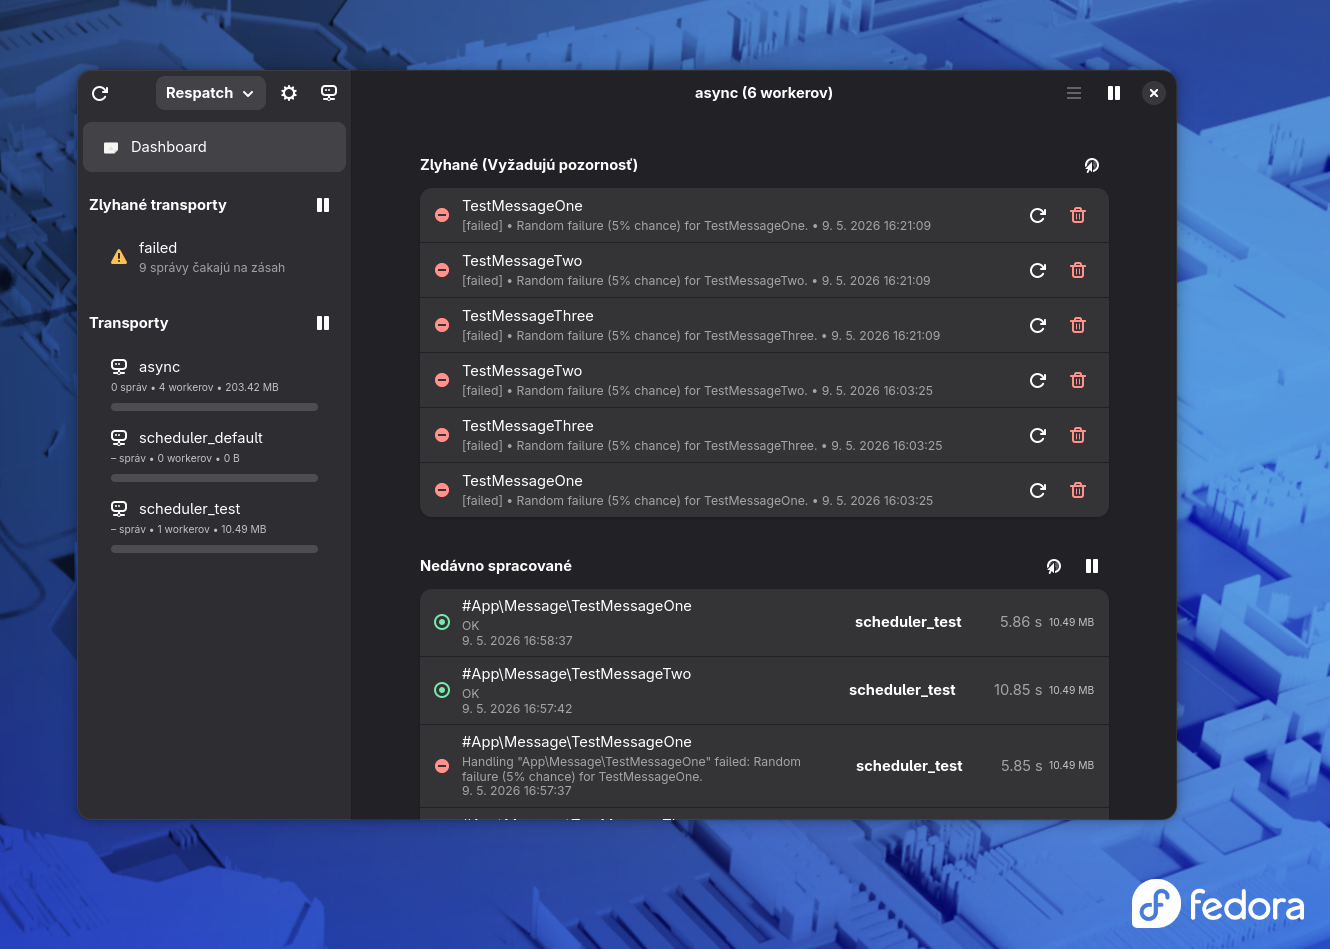
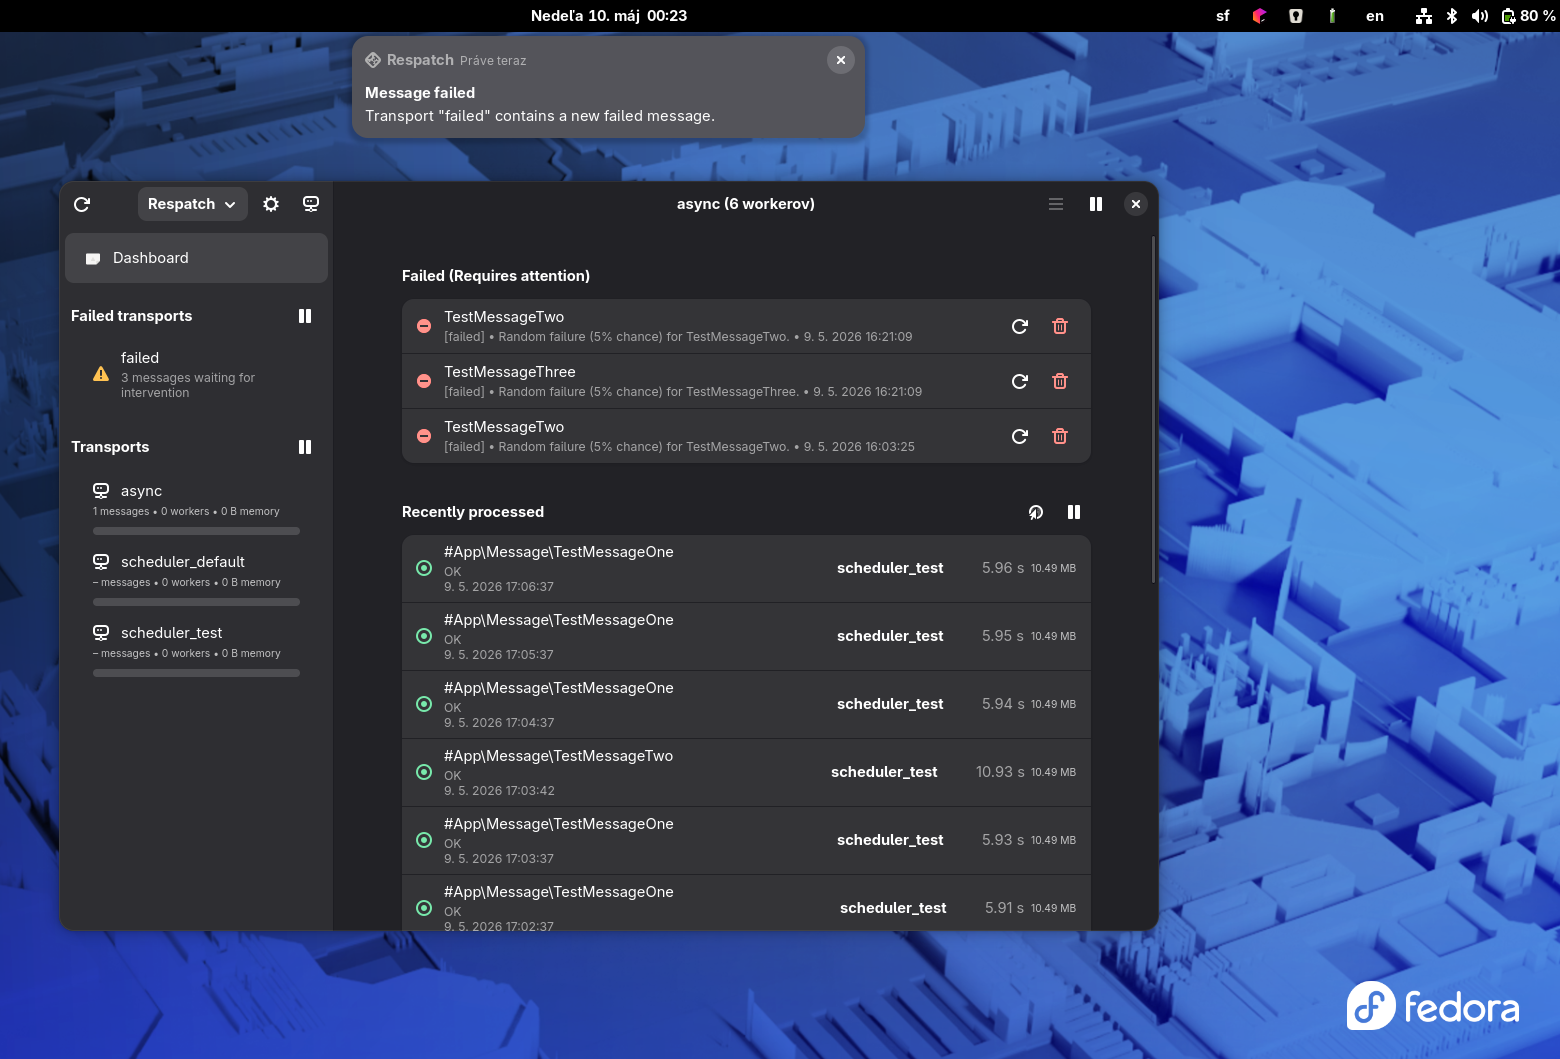
wip

diff --git a/src/daemon.ts b/src/daemon.ts
@@ -1,0 +1,144 @@
+import Gio from 'gi://Gio';
+import GLib from 'gi://GLib';
+import { _ } from './gettext.js';
+import { gjsFetch } from './libs/fetch.js';
+import { SettingsService } from './services/SettingsService.js';
+import { ApiClient } from './services/ApiClient.js';
+import { LoggerService, ConsoleTransport, FileTransport, LogTransport } from './services/LoggerService.js';
+import { NotificationService } from './services/NotificationService.js';
+import { Project } from './models/Project.js';
+
+// Configuration
+const POLL_INTERVAL_SECONDS = 10;
+
+export const Daemon = Gio.Application.new('sk.tito10047.respatch.Daemon', Gio.ApplicationFlags.FLAGS_NONE);
+
+let settingsService: SettingsService;
+let apiClient: ApiClient;
+let logger: LoggerService;
+let notificationService: NotificationService;
+let loopId: number | null = null;
+let projectsToMonitor: Project[] = [];
+
+function setupServices() {
+    settingsService = new SettingsService();
+    
+    // Setup Logging
+    const transports: LogTransport[] = [new ConsoleTransport()];
+    if (settingsService.getLogToFile()) {
+        let logPath = settingsService.getLogPath();
+        if (!logPath) {
+            const logDir = GLib.build_filenamev([GLib.get_user_data_dir(), 'respatch']);
+            logPath = GLib.build_filenamev([logDir, 'daemon.log']);
+        } else {
+            if (logPath.startsWith('~/')) {
+                logPath = GLib.build_filenamev([GLib.get_home_dir(), logPath.slice(2)]);
+            }
+            // If the user specified a custom log file for the app, we use it for daemon as well, 
+            // but append '-daemon' to the file name to avoid overlapping logs, or just change the name.
+            // A simpler approach is to replace the filename with daemon.log if it ends with .log
+            const dir = GLib.path_get_dirname(logPath);
+            let base = GLib.path_get_basename(logPath);
+            if (base.endsWith('.log')) {
+                base = base.slice(0, -4) + '-daemon.log';
+            } else {
+                base = base + '-daemon';
+            }
+            logPath = GLib.build_filenamev([dir, base]);
+        }
+        transports.push(new FileTransport(logPath));
+    }
+
+    logger = new LoggerService(transports, settingsService.getLoggingEnabled());
+    logger.info('Daemon starting');
+
+    apiClient = new ApiClient(gjsFetch);
+    notificationService = new NotificationService(Daemon);
+
+    loadConfig();
+
+    // Listen to changes in settings so we don't have to restart daemon
+    settingsService.getSettings().connect('changed', (settings: Gio.Settings, key: string) => {
+        if (key === 'projects') {
+            logger.info('Settings changed, reloading config...');
+            loadConfig();
+        }
+    });
+}
+
+function loadConfig() {
+    projectsToMonitor = settingsService.getProjects();
+    logger.info(`Loaded config for ${projectsToMonitor.length} project(s).`);
+}
+
+async function checkFailedMessages() {
+    if (projectsToMonitor.length === 0) {
+        return GLib.SOURCE_CONTINUE;
+    }
+
+    const allKeys: string[] = [];
+
+    for (const project of projectsToMonitor) {
+        try {
+            const transports = await apiClient.fetchTransports(project.url, project.token);
+            const failureTransportNames = Object.entries(transports)
+                .filter(([, info]) => info.failure)
+                .map(([name]) => name);
+
+            if (failureTransportNames.length === 0) {
+                continue;
+            }
+
+            const results = await Promise.allSettled(
+                failureTransportNames.map(name =>
+                    apiClient.fetchFailedMessages(project.url, project.token, name)
+                )
+            );
+
+            for (const result of results) {
+                if (result.status === 'fulfilled') {
+                    for (const msg of result.value) {
+                        allKeys.push(`${msg.transport}:${msg.id}:${project.id}`);
+                    }
+                }
+            }
+        } catch (e) {
+            logger.error(`Error checking failed messages for project ${project.name}: ${e}`);
+        }
+    }
+
+    logger.info(`Found ${allKeys.length} failed messages to process.`);
+    notificationService.processFailedMessages(allKeys);
+
+    return GLib.SOURCE_CONTINUE;
+}
+
+Daemon.connect('startup', () => {
+    setupServices();
+});
+
+Daemon.connect('activate', () => {
+    // Start polling loop
+    if (!loopId) {
+        loopId = GLib.timeout_add_seconds(
+            GLib.PRIORITY_DEFAULT,
+            POLL_INTERVAL_SECONDS,
+            () => {
+                checkFailedMessages().catch(e => logger.error(`Unhandled error in checkFailedMessages: ${e}`));
+                return GLib.SOURCE_CONTINUE;
+            }
+        );
+        logger.info(`Started polling every ${POLL_INTERVAL_SECONDS} seconds`);
+    }
+    Daemon.hold(); // Keep daemon alive
+});
+
+Daemon.connect('shutdown', () => {
+    if (loopId) {
+        GLib.source_remove(loopId);
+        loopId = null;
+    }
+    logger.info('Daemon shutting down');
+});
+
+Daemon.run([import.meta.url]);

diff --git a/src/ui/windows/MainWindow.ts b/src/ui/windows/MainWindow.ts
@@ -1,5 +1,6 @@
 import Gtk from 'gi://Gtk?version=4.0';
 import Adw from 'gi://Adw?version=1';
+import Gio from 'gi://Gio';
 import { _ } from '../../gettext.js';
 import { WindowManager } from '../../WindowManager.js';
 import { ProjectStore } from '../../stores/ProjectStore.js';
@@ -45,6 +46,9 @@ export class MainWindow {
     private readonly recentMessagesSection: PollingSection<RecentMessage, RecentMessagesResponse>;
     private readonly failedMessagesSection: PollingSection<FailedMessage, FailedMessagesResponse>;
 
+    private daemonRunning = false;
+    private readonly daemonWatchId: number;
+
     constructor(
         app: Adw.Application,
         uiDir: string,
@@ -79,6 +83,20 @@ export class MainWindow {
         this.transportSection.start();
         this.recentMessagesSection.start();
         this.failedMessagesSection.start();
+
+        this.daemonWatchId = Gio.bus_watch_name(
+            Gio.BusType.SESSION,
+            'sk.tito10047.respatch.Daemon',
+            Gio.BusNameWatcherFlags.NONE,
+            () => { 
+                this.logger.info('Daemon is running. Disabling local notifications.');
+                this.daemonRunning = true; 
+            },
+            () => { 
+                this.logger.info('Daemon is NOT running. Enabling local notifications.');
+                this.daemonRunning = false; 
+            }
+        );
     }
 
     present(): void {
@@ -305,7 +323,11 @@ export class MainWindow {
             toItems: (response) => response,
             keyOf: (msg) => `${msg.transport}:${msg.id}`,
             createRow: () => new FailedMessageRow(uiDir, actionHandler.createHandler()),
-            onRenderedKeys: (keys) => this.notificationService.processFailedMessages(keys),
+            onRenderedKeys: (keys) => {
+                if (!this.daemonRunning) {
+                    this.notificationService.processFailedMessages(keys);
+                }
+            },
         });
     }
 }

diff --git a/src/ui/windows/SettingsWindow.ts b/src/ui/windows/SettingsWindow.ts
@@ -18,12 +18,19 @@ export class SettingsWindow {
 
         const loggingRow = builder.get_object('logging_enabled_row') as Adw.SwitchRow;
         const logToFileRow = builder.get_object('log_to_file_row') as Adw.SwitchRow;
+        const logPathRow = builder.get_object('log_path_row') as Adw.EntryRow;
         const messengerUrlRow = builder.get_object('messenger_dashboard_url_row') as Adw.EntryRow;
         const preferredBrowserRow = builder.get_object('preferred_browser_row') as Adw.EntryRow;
 
         // Sync state from settings
         loggingRow.set_active(this.settingsService.getLoggingEnabled());
         logToFileRow.set_active(this.settingsService.getLogToFile());
+        
+        const currentLogPath = this.settingsService.getLogPath();
+        if (currentLogPath) {
+            logPathRow.set_text(currentLogPath);
+        }
+
         messengerUrlRow.set_text(this.settingsService.getMessengerDashboardUrl());
         preferredBrowserRow.set_text(this.settingsService.getPreferredBrowser());
 
@@ -37,6 +44,10 @@ export class SettingsWindow {
         logToFileRow.connect('notify::active', () => {
             const active = logToFileRow.get_active();
             this.settingsService.setLogToFile(active);
+        });
+
+        logPathRow.connect('apply', () => {
+            this.settingsService.setLogPath(logPathRow.get_text());
         });
 
         messengerUrlRow.connect('apply', () => {

diff --git a/src/Application.ts b/src/Application.ts
@@ -41,8 +41,13 @@ export const Application = GObject.registerClass({
         const logToFile = this.settingsService.getLogToFile();
 
         if (logToFile) {
-            const logDir = GLib.build_filenamev([GLib.get_user_data_dir(), 'respatch']);
-            const logPath = GLib.build_filenamev([logDir, 'respatch.log']);
+            let logPath = this.settingsService.getLogPath();
+            if (!logPath) {
+                const logDir = GLib.build_filenamev([GLib.get_user_data_dir(), 'respatch']);
+                logPath = GLib.build_filenamev([logDir, 'respatch.log']);
+            } else if (logPath.startsWith('~/')) {
+                logPath = GLib.build_filenamev([GLib.get_home_dir(), logPath.slice(2)]);
+            }
             transports.push(new FileTransport(logPath));
         }
 

diff --git a/src/services/SettingsService.ts b/src/services/SettingsService.ts
@@ -8,6 +8,10 @@ export class SettingsService {
         this.settings = new Gio.Settings({ schema_id: 'org.respatch' });
     }
 
+    public getSettings(): Gio.Settings {
+        return this.settings;
+    }
+
     public getProjects(): Project[] {
         const projectsStr = this.settings.get_strv('projects');
         return projectsStr.map(str => JSON.parse(str) as Project);
@@ -59,6 +63,14 @@ export class SettingsService {
 
     public setLogToFile(enabled: boolean): void {
         this.settings.set_boolean('log-to-file', enabled);
+    }
+
+    public getLogPath(): string {
+        return this.settings.get_string('log-path');
+    }
+
+    public setLogPath(path: string): void {
+        this.settings.set_string('log-path', path);
     }
 
     public getMessengerDashboardUrl(): string {

diff --git a/tests/SettingsService.test.ts b/tests/SettingsService.test.ts
@@ -62,4 +62,17 @@ describe('SettingsService', () => {
         const expectedProjects = [existingProjects[1]];
         expect(mockSetStrv).toHaveBeenCalledWith('projects', expectedProjects.map(p => JSON.stringify(p)));
     });
+
+    it('should return settings instance', () => {
+        const settings = service.getSettings();
+        expect(settings).toBeDefined();
+        expect(typeof (settings as any).get_strv).toBe('function');
+    });
+
+    it('should return active project', () => {
+        mockGetString.mockReturnValue('123');
+        const activeProjectId = service.getActiveProject();
+        expect(activeProjectId).toBe('123');
+        expect(mockGetString).toHaveBeenCalledWith('last-active-project');
+    });
 });

diff --git a/test-dbus.js b/test-dbus.js
@@ -1,0 +1,14 @@
+import Gio from 'gi://Gio';
+
+const hasOwner = Gio.DBus.session.call_sync(
+    'org.freedesktop.DBus',
+    '/org/freedesktop/DBus',
+    'org.freedesktop.DBus',
+    'NameHasOwner',
+    new GLib.Variant('(s)', ['sk.tito10047.respatch.Daemon']),
+    null,
+    Gio.DBusCallFlags.NONE,
+    -1,
+    null
+);
+print(hasOwner.get_child_value(0).get_boolean());

diff --git a/README.md b/README.md
@@ -12,6 +12,7 @@
 
 - 📊 **Complete transport overview:** Monitor the status of all your transports in one place.
 - 🕒 **Message history:** Instant access to a list of recently processed messages.
+- ⚙ **Background Daemon:** A background service that monitors failed messages and displays system notifications even when the main window is closed.
 - ⚠ **Failure management:** A clear list of failed messages with the option to immediately retry or delete them.
 - 🔔 **System notifications:** Receive desktop notifications when messages fail, so you never miss a critical issue.
 - 🖥 **System integration:** Uses modern GNOME libraries (GTK4 + Libadwaita) for a clean, native look and smooth performance.
@@ -75,3 +76,27 @@ Have an idea for improvement or found a bug? We'd love it if you opened an Issue
 ---
 
 *Developed with love for the PHP community.* ❤
+
+
+
+## Headless Daemon (Background Service)
+
+Respatch includes a headless daemon that runs in the background and continuously checks for failed messages, even when the main application window is closed. 
+When the daemon detects new failed messages, it sends a native GNOME system notification.
+
+### How to enable the background service (systemd)
+
+The easiest way to install, configure, and start the background service (including all necessary permissions for notifications) is to use the provided installation script. This script automatically builds the service, sets up the paths, and registers the `Respatch Daemon` in the system:
+
+```bash
+chmod +x bin/install_deamon.sh
+./bin/install_deamon.sh
+```
+
+To check the service status after installation, you can call at any time:
+```bash
+systemctl --user status respatch-daemon.service
+```
+
+**Automatic detection:**
+The main Respatch application automatically detects (via DBus) that the daemon is running in the background. In this case, the application will stop sending system notifications for failed messages itself to prevent duplication. If you turn off the daemon, the application will take over the responsibility for notifications again.
